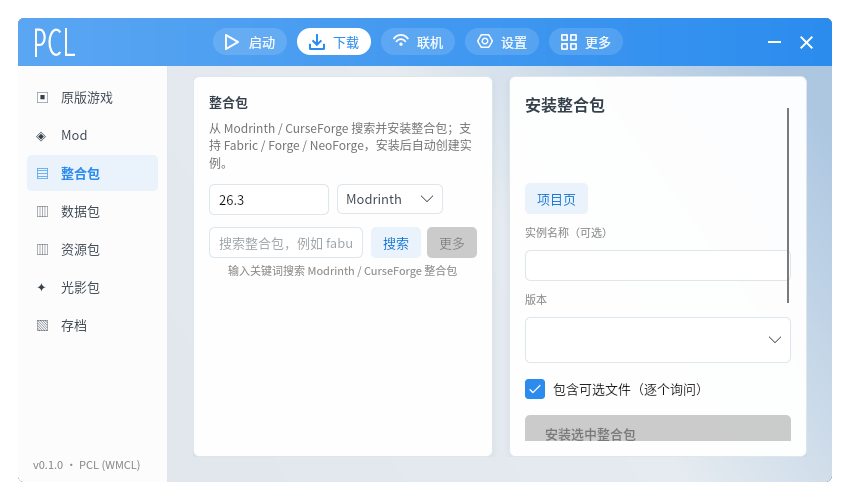
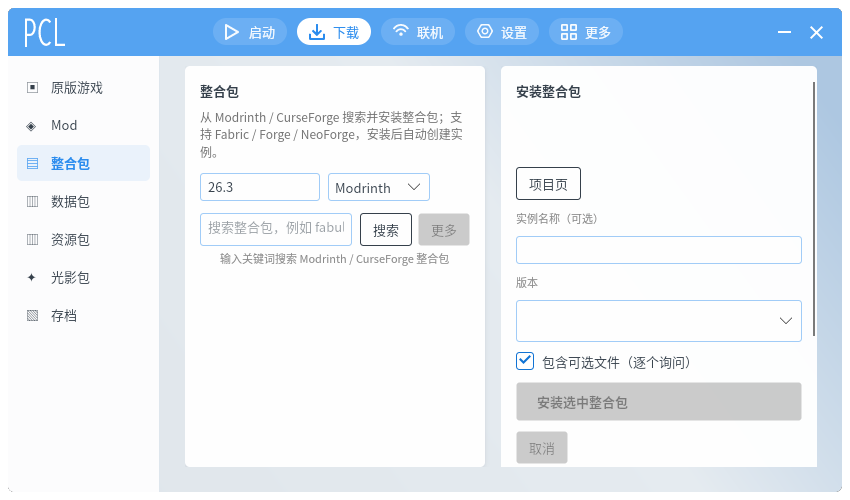
feat(ui): 启动按钮配色与安装导航
启动按钮使用明确的 PCL2 配色，完善实例安装导航，第三方登录按需显示。

diff --git a/src/WMCL.App/ViewModels/MainWindowViewModel.cs b/src/WMCL.App/ViewModels/MainWindowViewModel.cs
@@ -149,7 +149,7 @@ public partial class MainWindowViewModel : ViewModelBase, IDisposable
 
         foreach (var taskSource in new INotifyPropertyChanged[]
                  {
-                     Download, Mods, Modpack, Content, Instance, Install
+                     Download, Mods, Modpack, Content, Instance, Install, Launch
                  })
             taskSource.PropertyChanged += OnTaskPropertyChanged;
 
@@ -278,6 +278,11 @@ public partial class MainWindowViewModel : ViewModelBase, IDisposable
             progress = 0;
             text = "导入实例";
         }
+        else if (Launch.IsBusy)
+        {
+            progress = Launch.Progress;
+            text = "安装/启动版本";
+        }
         else
         {
             active = false;
@@ -332,8 +337,6 @@ public partial class MainWindowViewModel : ViewModelBase, IDisposable
     public IReadOnlyList<NavItem> TopTabs { get; }
     public ObservableCollection<NavItem> SubTabs { get; } = [];
 
-    public string VersionText => $"v{WMCL.Core.AppInfo.Version} · PCL (WMCL)";
-
     // PCL2 的启动页左栏从窗口内容边缘开始；其他页面右侧留 25px。
     public Thickness PageMargin =>
         CurrentPage is LaunchViewModel or VersionSelectViewModel
@@ -352,7 +355,7 @@ public partial class MainWindowViewModel : ViewModelBase, IDisposable
     [ObservableProperty]
     private bool _hasSubTabs;
 
-    public double SubNavWidth => HasSubTabs ? 150 : 0;
+    public double SubNavWidth => HasSubTabs ? 152 : 0;
 
     partial void OnHasSubTabsChanged(bool value) =>
         OnPropertyChanged(nameof(SubNavWidth));
@@ -416,6 +419,28 @@ public partial class MainWindowViewModel : ViewModelBase, IDisposable
 
         HasSubTabs = SubTabs.Count > 0;
         SelectedSubTab = SubTabs.FirstOrDefault();
+    }
+
+    public void OpenInstanceInstall()
+    {
+        if (Instance.SelectedInstance is { } instance)
+            Download.SelectedVersion = instance;
+        PushPage(Install, "安装");
+    }
+
+    public void OpenInstanceMods()
+    {
+        if (Instance.SelectedInstance is { } instance)
+            Mods.SelectedModInstance = instance.Id;
+        PushPage(Mods, "Mod");
+    }
+
+    public void OpenInstanceContent(string key, string title)
+    {
+        if (Instance.SelectedInstance is { } instance)
+            Content.SelectedInstance = instance.Id;
+        Content.SetMode(key);
+        PushPage(Content, title);
     }
 
     public void OpenVersionSelect()

diff --git a/src/WMCL.App/Views/InstanceView.axaml.cs b/src/WMCL.App/Views/InstanceView.axaml.cs
@@ -1,4 +1,5 @@
 using Avalonia.Controls;
+using WMCL.App.ViewModels;
 
 namespace WMCL.App.Views;
 
@@ -8,15 +9,41 @@ public partial class InstanceView : UserControl
     {
         var index = SectionList?.SelectedIndex ?? -1;
         if (index < 0) return;
-        var target = index switch
+        if (index <= 3)
         {
-            0 => OverviewCard,
-            1 => ServerCard,
-            2 => ExportCard,
-            3 => SettingsCard,
-            _ => null
-        };
-        target?.BringIntoView();
+            var target = index switch
+            {
+                0 => OverviewCard,
+                1 => ServerCard,
+                2 => ExportCard,
+                3 => SettingsCard,
+                _ => null
+            };
+            target?.BringIntoView();
+            return;
+        }
+
+        if (TopLevel.GetTopLevel(this)?.DataContext is not MainWindowViewModel main)
+            return;
+        switch (index)
+        {
+            case 4:
+                main.OpenInstanceInstall();
+                break;
+            case 5:
+                main.OpenInstanceMods();
+                break;
+            case 6:
+                main.OpenInstanceContent("content-resource", "资源包");
+                break;
+            case 7:
+                main.OpenInstanceContent("content-world", "存档");
+                break;
+            case 8:
+                main.OpenInstanceContent("content-shader", "光影");
+                break;
+        }
+        SectionList.SelectedIndex = 0;
     }
 
     private async void OnChooseExportPathClick(object? sender, Avalonia.Interactivity.RoutedEventArgs e)

diff --git a/docs/UI_REFERENCE.md b/docs/UI_REFERENCE.md
@@ -13,11 +13,12 @@
 | 窗口 | 850×500，`ResizeMode=CanMinimize`（不可缩放）；内容外边距 8px、圆角 6px |
 | 标题栏 | 48px；单色 `ColorObject4`（默认 #4890F5）；窗口按钮 28×28；关闭右边距 12，最小化 44 |
 | 顶部导航 | 高 27px，圆角 13.5；选中白底、蓝字/蓝图标 |
-| 启动页左栏 | 300px |
+| 启动页左栏 | 300px；左子导航 152px |
 | 右侧内容边距 | 25px（启动页 25,25,25,10） |
 | 卡片 | PCL2 `MyCard`：圆角 5、无边框、背景 #F5FFFFFF、3px 柔和阴影 |
 | 按钮 | PCL2 `MyButton`：半透明白底 + 1px 边框；普通灰边灰字，Highlight 蓝边蓝字；圆角 3 |
 | 输入框/下拉框 | PCL2 `MyTextBox/MyComboBox`：半透明白底、浅蓝 `ColorBrushBg0` 边框、圆角 3、13px |
+| 复选框 | PCL2 `MyCheckBox`：18px 方框、圆角 3、浅色底、蓝勾 |
 | 页面背景 | 蓝色渐变（PCL-ME：`#96C0F9 → #E0EAFD → #D5E6FD`） |
 
 ## 当前实现
@@ -37,7 +38,7 @@
 - PCL-ME 的 `PclCard` 标题栏/内容边距还未完全复刻；
 - PCL-ME 启动页的账号资料卡、启动按钮样式与本项目仍有差异；
 - PCL-CE 的 PageHomepage 新闻主页/PageTools 尚未实现；
-- 实例页已去掉重复的 300px 实例列表，加入 150px 分区导航（概览/服务器/导出/设置），右侧全宽卡片，顶部实例下拉切换；
+- 实例页加入 150px 分区导航（概览/服务器/导出/设置/安装/Mod/资源包/存档/光影），右侧全宽卡片，顶部实例下拉切换；
 - “更多”移除自定义“实例管理”项；实例设置按 PCL2 从版本选择进入，并作为子页入栈；
 - 整合包页改为左 300 / 右自适应，并补空状态；
 - 下载页加载器卡片默认收起（PCL2 卡片式），底部按钮改回 35px 普通按钮；

diff --git a/docs/UI_LOGIC_AUDIT.md b/docs/UI_LOGIC_AUDIT.md
@@ -21,9 +21,9 @@
 | 8 | ~~`Filters`/`SelectedFilter` 死状态~~ | 已移除启动页筛选状态和无用过滤方法 |
 | 9 | ~~下载页对已安装版本禁用“安装”~~ | 已允许对已安装版本重新下载/补全（仍会走安装器的跳过/SHA1 逻辑） |
 | 10 | 下载页加载器仍是单独安装按钮；组合安装已改成“基础加载器 + OptiFine”组件选择 | 尚未做到 PCL2 的完整组件勾选 |
-| 11 | 实例页已加 150px 分区导航（概览/服务器/导出/设置）+ 全宽卡片；“更多”中的自定义“实例管理”已移除 | 分区项仍少于 PCL-CE |
+| 11 | 实例页已加 150px 分区导航（概览/服务器/导出/设置/安装/Mod/资源包/存档/光影）+ 全宽卡片；“更多”中的自定义“实例管理”已移除 | 基本对齐 |
 | 12 | Mod/整合包页仍是“列表 + 详情”双卡片 | 页面结构不同 |
-| 13 | 任务按钮的进度覆盖尚未在真实任务中做视觉验证 | 只编译验证，未运行验证 |
+| 13 | ~~任务按钮真实任务验证~~ | `Launch` 已纳入任务源；用 `--auto-install` 实测右下角 40px 任务按钮出现 |
 
 ## 结论
 
